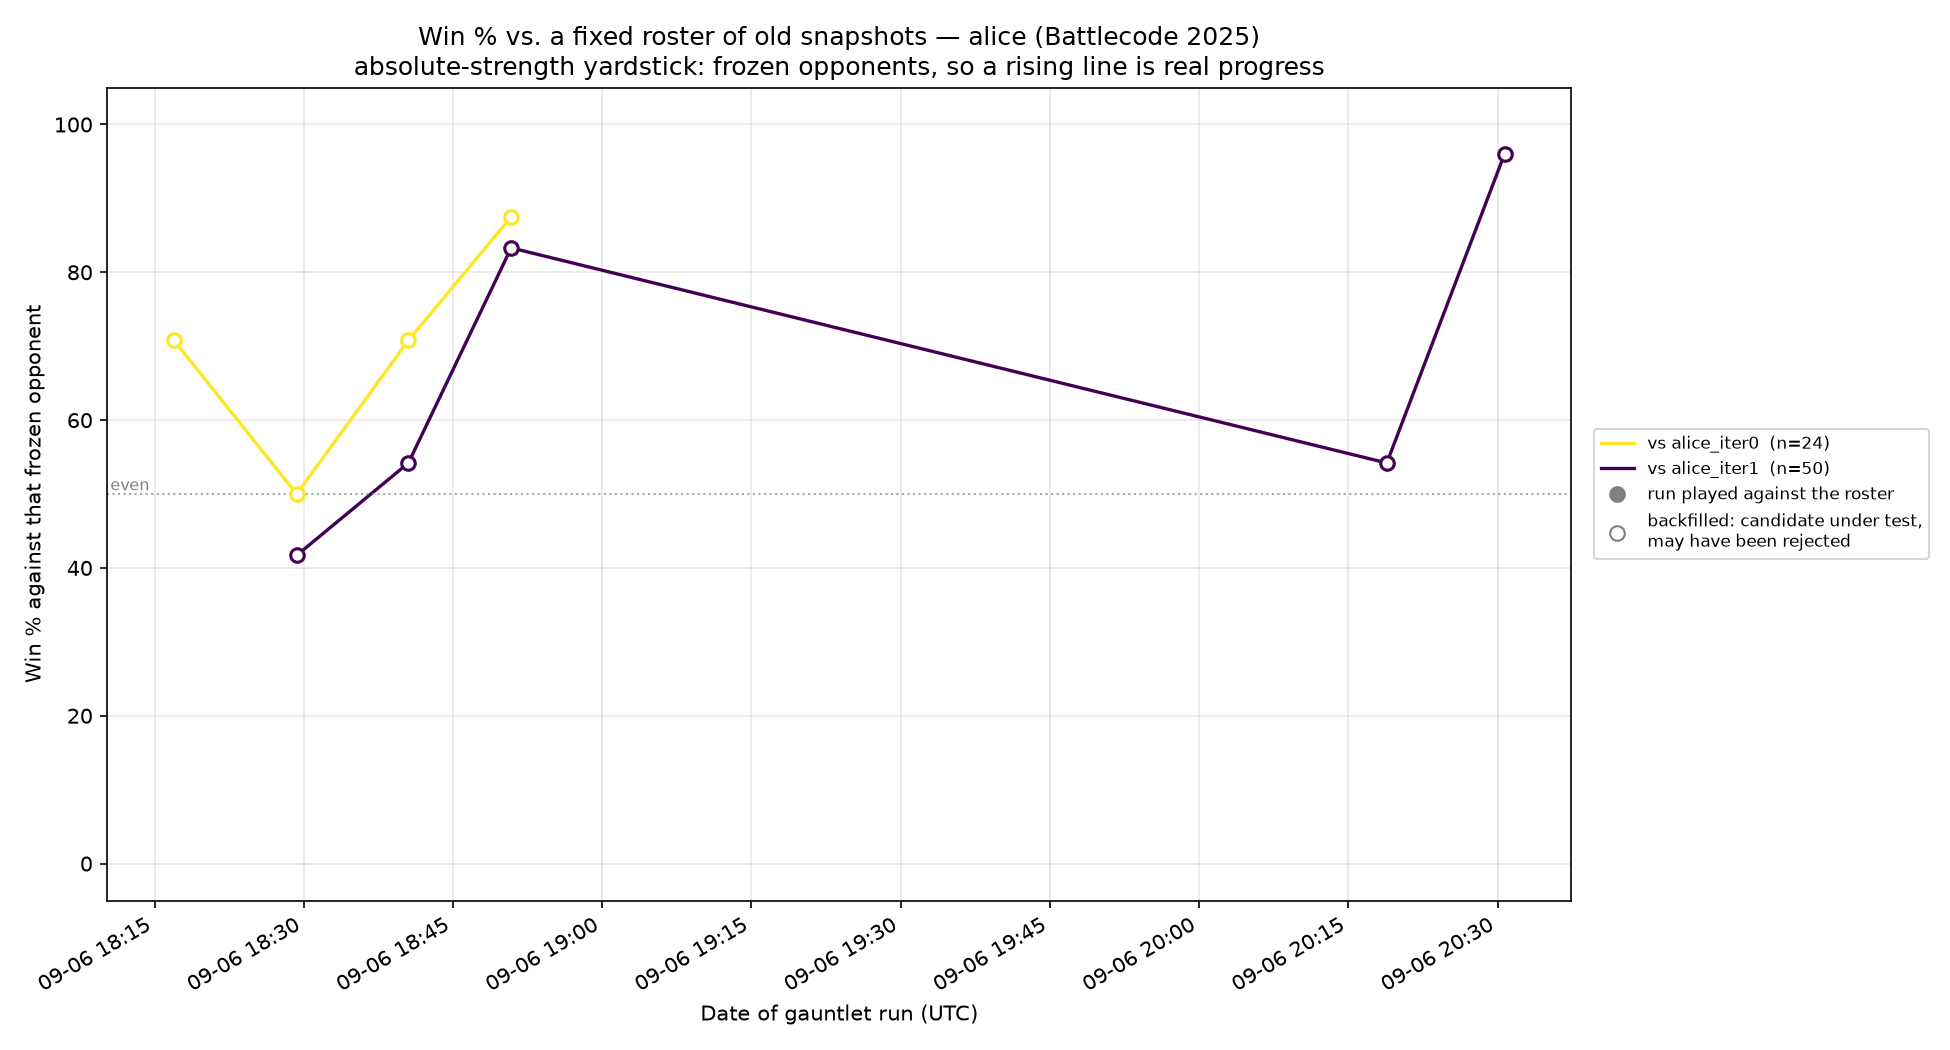
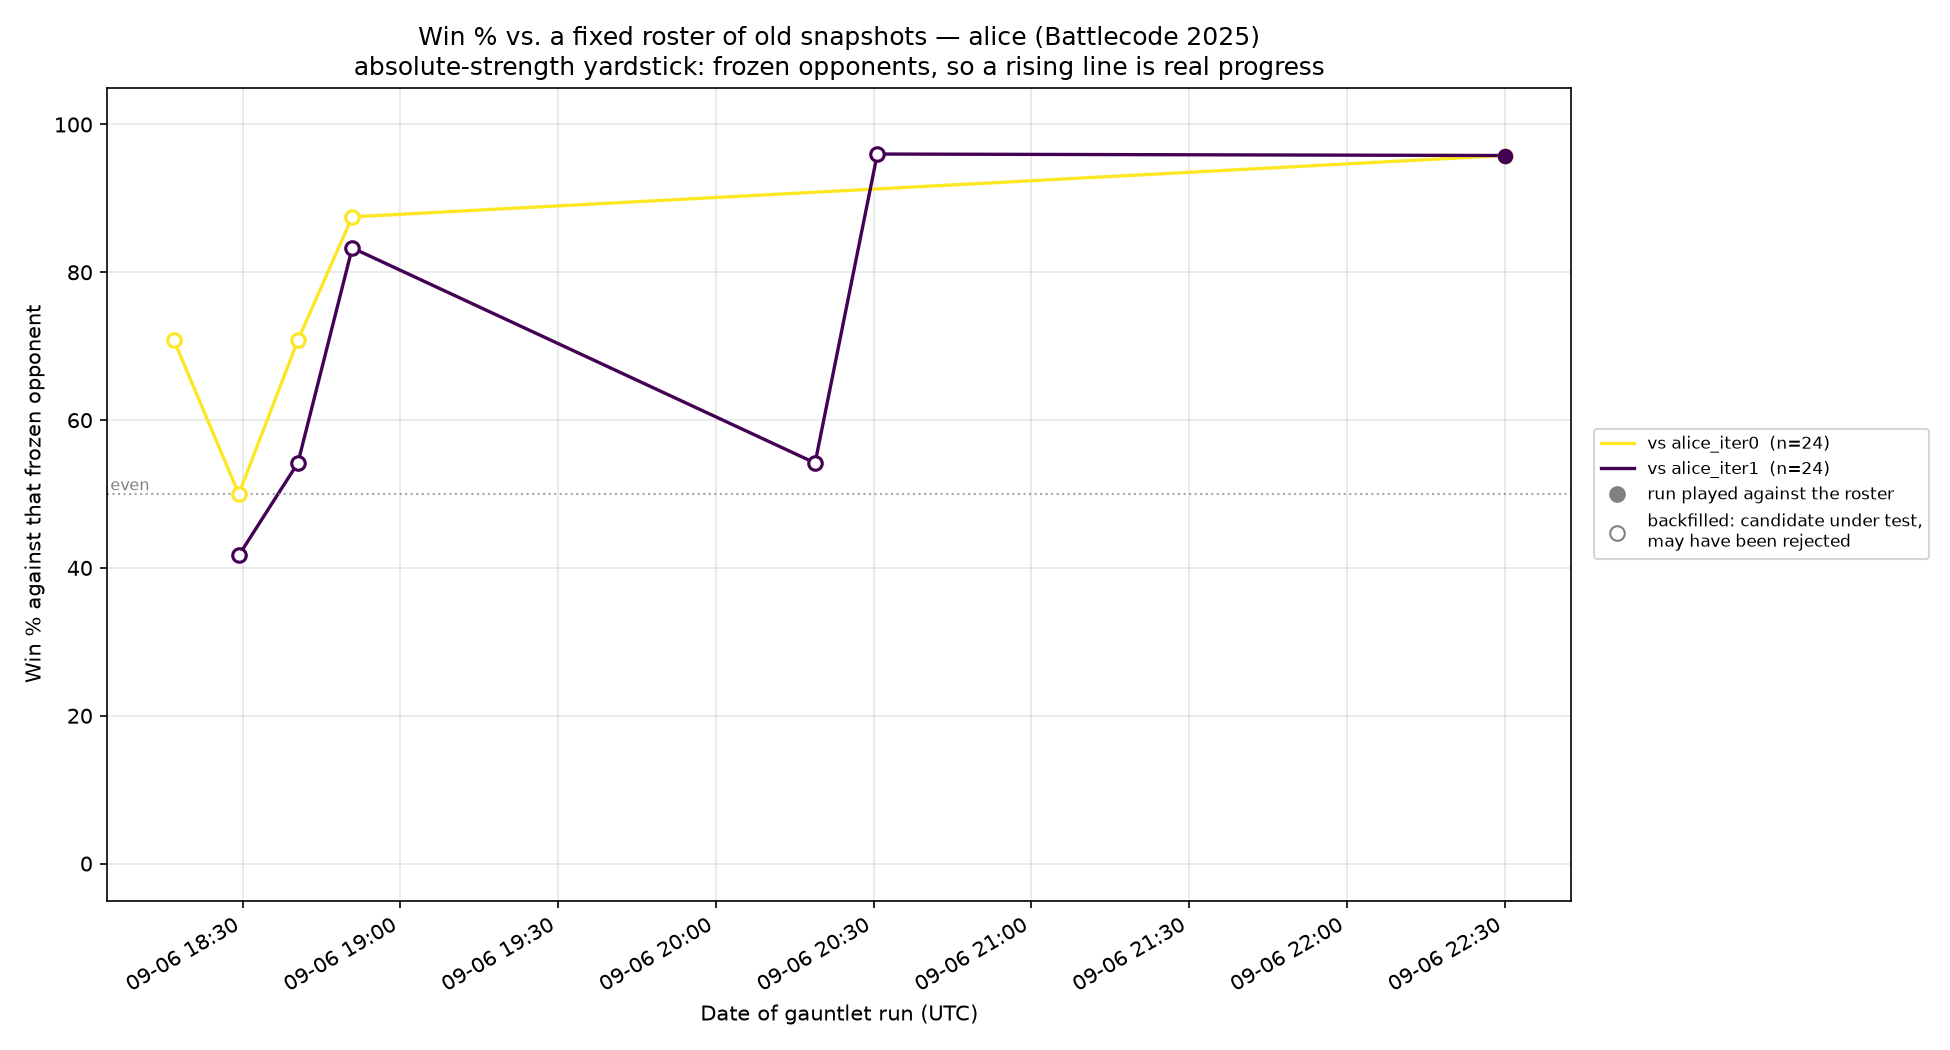
alice: record the fixed-roster point -- iter5 beats both frozen opponents 23/24 (95.8%)
Deliberate roster run, so these are solid points. The instrument had been stale
since iteration 4 and then only as a hollow backfill. Both roster opponents are now
past the 80% retirement threshold but roster members are never retired -- the value
is the long-run trend.

Also logs an ops hazard: the run's 72 games completed and collation died with a
syntax error in tools/gauntlet.sh. The tool is fine (bash -n passes, no local
modification) -- bash reads scripts incrementally, so a git pull rewrote the file
underneath an hours-long invocation. Only collation is ever lost since the remote
runner is setsid-detached, and gauntlet-collect.sh recovered the run in full with
no games re-run. The symptom points at the wrong thing.

Claude-Session: https://claude.ai/code/session_01AaaGzxRUmH5UDEVerTki8y

diff --git a/agents/alice/src/alice_i11/RobotPlayer.java b/agents/alice/src/alice_i11/RobotPlayer.java
@@ -1,0 +1,298 @@
+package alice_i11;
+
+import battlecode.common.*;
+
+/**
+ * Alice iteration 0: minimal instrumented bot.
+ * - bytecode monitoring wired in (overrun + near-miss surfaced in indicator strings)
+ * - soldiers: complete ruin tower patterns, paint own tile, wander
+ * - moppers: mop enemy paint, wander
+ * - towers: spawn soldiers/moppers, attack (single + AoE)
+ */
+public class RobotPlayer {
+    static final Direction[] directions = {
+        Direction.NORTH, Direction.NORTHEAST, Direction.EAST, Direction.SOUTHEAST,
+        Direction.SOUTH, Direction.SOUTHWEST, Direction.WEST, Direction.NORTHWEST,
+    };
+
+    // --- instrumentation ---
+    static int overruns = 0;       // confirmed bytecode overruns (round advanced mid-logic)
+    static int nearMisses = 0;     // ended turn within 15% of the limit
+    static int maxBc = 0;          // worst bytecode usage seen
+
+    // --- state ---
+    static int rngState;           // xorshift PRNG state (seeded from ID)
+    static Direction wanderDir = null;
+    static int wanderSteps = 0;
+
+    static int rnd(int n) {        // cheap deterministic per-robot PRNG
+        rngState ^= rngState << 13;
+        rngState ^= rngState >>> 17;
+        rngState ^= rngState << 5;
+        int r = rngState % n;
+        return r < 0 ? r + n : r;
+    }
+
+    @SuppressWarnings("unused")
+    public static void run(RobotController rc) throws GameActionException {
+        rngState = rc.getID() * 31 + 17;
+        final int limit = rc.getType().isRobotType()
+                ? GameConstants.ROBOT_BYTECODE_LIMIT : GameConstants.TOWER_BYTECODE_LIMIT;
+        while (true) {
+            int startRound = rc.getRoundNum();
+            try {
+                switch (rc.getType()) {
+                    case SOLDIER: runSoldier(rc); break;
+                    case MOPPER: runMopper(rc); break;
+                    case SPLASHER: runSplasher(rc); break;
+                    default: runTower(rc); break;
+                }
+            } catch (GameActionException e) {
+                // illegal action; keep going
+            } catch (Exception e) {
+                // real bug; keep robot alive
+            } finally {
+                int bc = Clock.getBytecodeNum();
+                if (bc > maxBc) maxBc = bc;
+                if (rc.getRoundNum() > startRound) overruns++;
+                else if (bc > limit - limit / 7) nearMisses++;
+                rc.setIndicatorString("bc=" + bc + " max=" + maxBc
+                        + (overruns > 0 ? " OVR=" + overruns : "")
+                        + (nearMisses > 0 ? " near=" + nearMisses : ""));
+                Clock.yield();
+            }
+        }
+    }
+
+    // ------------------------------------------------------------------ tower
+    /** Chips held back so a 1000-chip tower completion can always fund (iteration 2). */
+    static final int CHIP_RESERVE = 1450;
+
+
+    static void runTower(RobotController rc) throws GameActionException {
+        // Iteration 4: spend idle chips upgrading myself. Chips have not been the
+        // binding resource since iteration 2 ($120,840 unspent at r2000 on
+        // DefaultLarge) while PAINT bounds everything: a soldier's entire output
+        // is the 200 paint it was born with. Upgrading raises paint income
+        // 5->10->15/turn (money 20->30->40) permanently.
+        // Engine-verified: assertCanUpgradeTower only checks range + on-map, and
+        // upgradeTower adds no cooldown, so a tower upgrading ITSELF (distance 0)
+        // costs chips and nothing else -- no action, no turn, no cooldown.
+        UnitType nextLevel = rc.getType().getNextLevel();
+        if (nextLevel != null && rc.getMoney() >= nextLevel.moneyCost + CHIP_RESERVE
+                && rc.canUpgradeTower(rc.getLocation())) {
+            rc.upgradeTower(rc.getLocation());
+        }
+        // Attack: single-target the lowest-HP enemy robot in range, then AoE if any enemy near.
+        RobotInfo[] enemies = rc.senseNearbyRobots(rc.getType().actionRadiusSquared, rc.getTeam().opponent());
+        if (enemies.length > 0) {
+            RobotInfo best = null;
+            for (RobotInfo e : enemies) {
+                if (best == null || e.getHealth() < best.getHealth()) best = e;
+            }
+            if (best != null && rc.canAttack(best.getLocation())) rc.attack(best.getLocation());
+            if (rc.canAttack(null)) rc.attack(null); // AoE
+        }
+
+        // Spawn: mostly soldiers, some moppers. Keep a chip reserve so 1000-chip
+        // tower completions can always fund (spawning greedily at 250/unit pins
+        // money near zero and stalls tower expansion permanently).
+        if (rc.getMoney() >= CHIP_RESERVE) {
+            UnitType want = (rnd(4) == 0) ? UnitType.MOPPER : UnitType.SOLDIER;
+            // Iteration 11: build SPLASHERS. They are the only unit that can TAKE
+            // enemy ground -- a soldier cannot overwrite enemy paint at all and a
+            // mopper only clears it to empty, while a splasher overwrites it with
+            // ours. 81% of games are decided by the painted-area tiebreak, so the
+            // only unit that converts their score into ours has never been built.
+            // Gated the same way iteration 5 gated moppers, in reverse: at 300 tower
+            // paint a splasher could starve the soldier pipeline far harder than the
+            // mopper did, so only build one when doing so cannot deny a soldier.
+            // 11b: the first gate (SOLDIER+SPLASHER = 500 in ONE tower) was DEAD CODE.
+            // Towers hover near ~100 paint each because they spend it spawning --
+            // measured twPaint 790-1195 across ELEVEN towers. Nothing ever reached
+            // 500, so spl stayed 0 all game. New towers, however, spawn with 500
+            // paint (RULES.md), so gating on the splasher's own cost lets a freshly
+            // built tower produce one before it drains.
+            if (rnd(8) == 0 && rc.getPaint() >= UnitType.SPLASHER.paintCost) {
+                want = UnitType.SPLASHER;
+            }
+            // Iteration 5: reserve tower PAINT for soldiers. Measured defect --
+            // a mopper costs 100 tower paint, a soldier 200, and a tower's paint
+            // income is only 5-15/turn, so the tower can fund a mopper twice as
+            // often and never accumulates the 200 a soldier needs. The realized
+            // army mix is therefore ~90% moppers, not the 25% this line reads as
+            // (Racetrack r1750-2000: +9 soldiers vs +93 moppers). Moppers cannot
+            // paint, and painted area is the win condition. Worse, the drain is an
+            // ABSORBING STATE: once tower paint reaches 0 only the 100-paint mopper
+            // is affordable, moppers complete no tower patterns, so paint income
+            // never recovers (Mirage: dead at r200, coverage 132 -> 15 per-mille).
+            // The threshold is SOLDIER.paintCost rather than a tuned constant --
+            // "only build a mopper if a soldier was affordable too". Doses 50 and
+            // 100 were statistically tied (they disagreed on 3 of 27 shared cells),
+            // so this picks the self-calibrating form over the searched one.
+            // Refusing the mopper here does NOT substitute a cheaper unit: the
+            // build below simply fails and the paint accumulates until a soldier
+            // is affordable, which is the intent.
+            if (want == UnitType.MOPPER && rc.getPaint() < UnitType.SOLDIER.paintCost) {
+                want = UnitType.SOLDIER;
+            }
+            int off = rnd(8);
+            for (int i = 0; i < 8; i++) {
+                MapLocation loc = rc.getLocation().add(directions[(i + off) % 8]);
+                if (rc.canBuildRobot(want, loc)) { rc.buildRobot(want, loc); break; }
+            }
+        }
+    }
+
+    // ---------------------------------------------------------------- soldier
+    static void runSoldier(RobotController rc) throws GameActionException {
+        // Find a nearby ruin without a tower and try to complete a pattern there.
+        MapLocation ruin = null;
+        MapLocation[] ruins = rc.senseNearbyRuins(-1);
+        MapLocation me = rc.getLocation();
+        int bestD = 1 << 30;
+        for (MapLocation r : ruins) {
+            if (rc.canSenseRobotAtLocation(r)) continue; // tower already there
+            int d = me.distanceSquaredTo(r);
+            if (d < bestD) { bestD = d; ruin = r; }
+        }
+
+        if (ruin != null) {
+            Direction toRuin = me.directionTo(ruin);
+            tryMove(rc, toRuin);
+            me = rc.getLocation();
+            // Mark the pattern if not already marked. Tower type by ruin-position
+            // parity: ~50/50 money/paint mix, decided by the map (identical for
+            // both teams), immune to the money-at-mark-time timing artifact that
+            // made every early mark a money tower.
+            UnitType wantTower = ((ruin.x + ruin.y) & 1) == 0
+                    ? UnitType.LEVEL_ONE_MONEY_TOWER : UnitType.LEVEL_ONE_PAINT_TOWER;
+            MapLocation markCheck = ruin.subtract(toRuin);
+            if (rc.canSenseLocation(markCheck)
+                    && rc.senseMapInfo(markCheck).getMark() == PaintType.EMPTY
+                    && rc.canMarkTowerPattern(wantTower, ruin)) {
+                rc.markTowerPattern(wantTower, ruin);
+            }
+            // Paint marked tiles that don't match yet.
+            for (MapInfo t : rc.senseNearbyMapInfos(ruin, 8)) {
+                PaintType mark = t.getMark();
+                if (mark != PaintType.EMPTY && mark != t.getPaint()) {
+                    if (rc.canAttack(t.getMapLocation())) {
+                        rc.attack(t.getMapLocation(), mark == PaintType.ALLY_SECONDARY);
+                        break;
+                    }
+                }
+            }
+            // Complete whichever pattern is actually painted (the mark decided it).
+            if (rc.canCompleteTowerPattern(UnitType.LEVEL_ONE_PAINT_TOWER, ruin)) {
+                rc.completeTowerPattern(UnitType.LEVEL_ONE_PAINT_TOWER, ruin);
+            } else if (rc.canCompleteTowerPattern(UnitType.LEVEL_ONE_MONEY_TOWER, ruin)) {
+                rc.completeTowerPattern(UnitType.LEVEL_ONE_MONEY_TOWER, ruin);
+            }
+        } else {
+            wander(rc);
+        }
+
+        // Paint the tile under us if it isn't ours yet (avoids paint penalty).
+        MapLocation cur = rc.getLocation();
+        MapInfo here = rc.senseMapInfo(cur);
+        if (!here.getPaint().isAlly() && rc.canAttack(cur)) {
+            rc.attack(cur);
+        }
+        // Otherwise spend the idle action painting the nearest empty tile in range.
+        if (rc.isActionReady() && rc.getPaint() >= 15) {
+            MapLocation paintTarget = null;
+            int paintD = 1 << 30;
+            for (MapInfo t : rc.senseNearbyMapInfos(9)) {
+                if (t.getPaint() == PaintType.EMPTY && t.isPassable()) {
+                    int d = cur.distanceSquaredTo(t.getMapLocation());
+                    if (d < paintD && rc.canAttack(t.getMapLocation())) {
+                        paintD = d;
+                        paintTarget = t.getMapLocation();
+                    }
+                }
+            }
+            if (paintTarget != null) rc.attack(paintTarget);
+        }
+    }
+
+    // --------------------------------------------------------------- splasher
+    static void runSplasher(RobotController rc) throws GameActionException {
+        // Iteration 0: splashers are never built; behave like a wanderer that splashes
+        // when enough enemy paint or a tower is in reach.
+        if (rc.isActionReady() && rc.getPaint() >= 60) {
+            MapLocation best = null;
+            int bestScore = 3; // require at least a few tiles worth
+            for (MapInfo t : rc.senseNearbyMapInfos(rc.getType().actionRadiusSquared)) {
+                MapLocation c = t.getMapLocation();
+                if (!rc.canAttack(c)) continue;
+                int score = 0;
+                if (t.getPaint().isEnemy()) score += 2;
+                else if (t.getPaint() == PaintType.EMPTY && t.isPassable()) score++;
+                if (score > bestScore) { bestScore = score; best = c; }
+            }
+            if (best != null) rc.attack(best);
+        }
+        wander(rc);
+    }
+
+    // ----------------------------------------------------------------- mopper
+    static void runMopper(RobotController rc) throws GameActionException {
+        // Mop adjacent enemy paint (prefer tiles with enemy robots on them).
+        if (rc.isActionReady()) {
+            MapLocation best = null;
+            for (MapInfo t : rc.senseNearbyMapInfos(2)) {
+                if (t.getPaint().isEnemy() && rc.canAttack(t.getMapLocation())) {
+                    best = t.getMapLocation();
+                    if (rc.canSenseRobotAtLocation(best)) break; // robot on it: steal paint
+                }
+            }
+            if (best != null) rc.attack(best);
+        }
+        // Iteration 7: walk toward the nearest enemy paint ANYWHERE in vision
+        // instead of wandering. The mopper picks targets within r^2<=2 -- the 8
+        // adjacent tiles -- while its vision is r^2=20, roughly 60 tiles: it has
+        // been blind to ~90% of what it can see. Motivated by the starburst trace,
+        // where iteration 5 painted ~2x the baseline and still lost both sides
+        // because the baseline erased ~2x as much.
+        MapLocation me = rc.getLocation();
+        MapLocation target = null;
+        int bd = 1 << 30;
+        for (MapInfo t : rc.senseNearbyMapInfos(-1)) {
+            if (!t.getPaint().isEnemy()) continue;
+            int d = me.distanceSquaredTo(t.getMapLocation());
+            if (d < bd) { bd = d; target = t.getMapLocation(); }
+        }
+        if (target == null) wander(rc);
+        else if (bd > 2) tryMove(rc, me.directionTo(target));
+        // bd <= 2: already in mopping range, hold position and keep mopping.
+    }
+
+    // ------------------------------------------------------------------ moves
+    static void wander(RobotController rc) throws GameActionException {
+        if (!rc.isMovementReady()) return;
+        if (wanderDir == null || wanderSteps <= 0) {
+            wanderDir = directions[rnd(8)];
+            wanderSteps = 5 + rnd(8);
+        }
+        if (rc.canMove(wanderDir)) {
+            rc.move(wanderDir);
+            wanderSteps--;
+        } else {
+            wanderDir = directions[rnd(8)];
+            wanderSteps = 5 + rnd(8);
+            if (rc.canMove(wanderDir)) { rc.move(wanderDir); wanderSteps--; }
+        }
+    }
+
+    /** Move toward dir with simple slide fallback. */
+    static void tryMove(RobotController rc, Direction dir) throws GameActionException {
+        if (!rc.isMovementReady() || dir == Direction.CENTER) return;
+        if (rc.canMove(dir)) { rc.move(dir); return; }
+        Direction l = dir.rotateLeft(), r = dir.rotateRight();
+        // Randomize tie-break order to avoid systematic side bias.
+        if (rnd(2) == 0) { Direction t = l; l = r; r = t; }
+        if (rc.canMove(l)) { rc.move(l); return; }
+        if (rc.canMove(r)) { rc.move(r); return; }
+    }
+}

diff --git a/agents/alice/TRAINING_LOG.md b/agents/alice/TRAINING_LOG.md
@@ -2146,3 +2146,56 @@ paint ≥ `SOLDIER.paintCost + SPLASHER.paintCost`.
 4. Reachability check FIRST, before coding: confirm from a trace that enemy paint
    in splash range actually occurs often — if the two armies never contact, the
    unit is dead weight at 300 paint a copy.
+
+### Splasher reachability check — done BEFORE writing the code this time
+
+The pre-registered question: does enemy paint in splash range actually occur often
+enough to justify a 300-paint unit? Answered from traces already on disk, no new
+games needed.
+
+Enemy coverage in every game traced this session runs **280-590‰** — between a
+quarter and three-fifths of the map is enemy-painted at any time, on both sides,
+all game. A splasher's target centre only needs to be within dist²≤4 and it
+overwrites enemy paint within r²≤2 of that centre. With enemy paint covering
+hundreds of tiles, a splasher essentially cannot fail to find a target.
+
+**Reachability: PASS, decisively.** This is the opposite of iteration 9, where the
+same check (run too late) showed 21 of 22 ruins already built and killed the idea.
+Doing it first cost one grep of existing logs.
+
+### Fixed-roster point recorded — `alice_iter5` vs the frozen roster
+
+Run `20260906-222958` was a deliberate roster run, so these are **solid** points:
+
+| current build | opponent | result |
+|---|---|---|
+| `alice_iter5` | `alice_iter0` | **23/24 (95.8%)** |
+| `alice_iter5` | `alice_iter1` | **23/24 (95.8%)** |
+
+This is the lineage's only absolute-strength instrument, and it had been stale
+since iteration 4 (and then only as a hollow, backfilled point). Both frozen
+opponents are now beaten ~96%, which is the answer the moving gauntlet pool cannot
+give: the bot is genuinely stronger, not just measured against softer opposition.
+
+Note both roster opponents are now over the 80% retirement threshold. Per the
+opponent-pool rules they would normally be retired — but roster members are
+explicitly **never retired**, because the value is each line's long-run trend. They
+stay.
+
+### Ops hazard — a shared tool was rewritten underneath a running process
+
+The roster run's 72 games completed and then collation died with
+`tools/gauntlet.sh: line 170: syntax error near unexpected token '}'`. The script
+is **not** broken: `bash -n` passes and `git status` shows no local modification.
+What happened is that bash reads a script incrementally as it executes, so a
+`git pull` that rewrote `tools/gauntlet.sh` while my hours-long invocation was
+still running shifted the file underneath the interpreter.
+
+Consequence and the fix, both already provided for: **only the collation is ever
+lost** — the remote runner is `setsid`-detached, so the games are safe — and
+`tools/gauntlet-collect.sh 20260906-222958` recovered the run in full
+(`results.csv`, `reasons.txt`, `summary.txt`, `losses/`). No games were re-run.
+
+Worth remembering because the symptom points at the wrong thing: a syntax error in
+a shared tool looks like a broken tool, and the instinct is to fix or work around
+it. The tool was fine.
